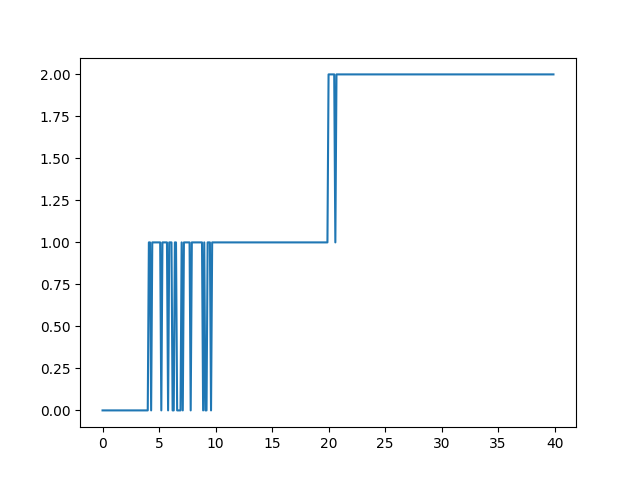
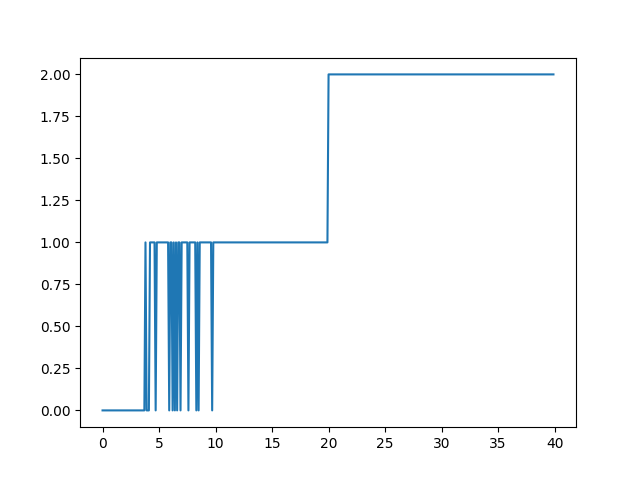
added files

Changed region(s): [[0.2188, 0.5, 0.3438, 0.875], [0.5, 0.1562, 0.5312, 0.5]]

diff --git a/test_benchmark.py b/test_benchmark.py
@@ -12,35 +12,35 @@ import tqdm as tqdm
 ## Synthetic policy parameters
 N = 5
 O = 5
-U = 3
+U = 4
 policy_parameters_load = np.zeros((N,O,3*(U-1)))
-policy_parameters_load[:,:,0::3] = np.array([[15,20],[10,15],[5,10],[0,5],[0,0]])
-policy_parameters_load[:,:,1::3] = np.array([[20,25],[15,20],[10,15],[5,10],[0,5]])
+policy_parameters_load[:,:,0::3] = np.array([[15,20,25],[10,15,20],[5,10,15],[0,5,10],[0,0,0]])
+policy_parameters_load[:,:,1::3] = np.array([[20,25,30],[15,20,25],[10,15,20],[5,10,15],[0,5,10]])
 policy_parameters_load[:,:,2::3] =  np.array([[1],[1],[1],[1],[1]])
+
 print(policy_parameters_load)
 ### Greedy Scheduling, Random Action
 spane_action = lambda l,o,n: get_action_from(policy_parameters_load[n,o],l)
-greedy_action_0 = lambda l,o,n: 0
-greedy_action_1 = lambda l,o,n: 1
-greedy_action_2 = lambda l,o,n: 2
-random_action = lambda l,o,n: np.random.choice([0,1,2])
+greedy_action_3 = lambda l,o,n: 3
+random_action = lambda l,o,n: np.random.choice(U)
 
 N_rounds = 2000
 N_Learners = 5
 N_classes = 10
 
 N_mc = 100
-policies = [spane_action,greedy_action_0,greedy_action_1,greedy_action_2,random_action,random_action]
-scheduling = [get_current_learner, get_current_learner_random, get_current_learner_random, get_current_learner_random, get_current_learner_random, get_current_learner]
+policies = [spane_action,spane_action,greedy_action_3,greedy_action_3,random_action,random_action]
+scheduling = [get_current_learner_random, get_current_learner, get_current_learner_random, get_current_learner, get_current_learner_random, get_current_learner]
+
 N_communication_rounds = np.zeros((len(policies),N_mc))
 
-learner_states_store = np.ones((N_mc,len(policies),N_rounds,N_Learners))*200
-class_counts = np.zeros((len(policies),N_mc,N_rounds,N_Learners,2))
-round_participation = np.zeros((len(policies),N_mc,N_rounds,N_Learners))
-action_rounds = np.zeros((len(policies),N_mc,N_rounds,N_Learners)) 
-num_rounds = np.zeros((len(policies),N_mc,N_Learners))
+learner_states_store = np.ones((N_mc,len(policies),N_rounds,N_Learners))*50  ### Stores the learner states for each mc round
+class_counts = np.zeros((len(policies),N_mc,N_rounds,N_Learners,2)) ### Stores the class counts for each mc round
+round_participation = np.zeros((len(policies),N_mc,N_rounds,N_Learners)) ### Stores the round participation for each mc round
+action_rounds = np.zeros((len(policies),N_mc,N_rounds,N_Learners)) ### Stores the actions for each mc round
+oracle_states_store = np.zeros((N_mc,N_rounds,N_Learners))
 
-PERFORM_EXP = 1
+PERFORM_EXP =0
 
 if PERFORM_EXP:
     for mc_round in tqdm.tqdm(range(N_mc)):
@@ -49,26 +49,28 @@ if PERFORM_EXP:
         for policy in range(len(policies)):
             learner_done = np.zeros((N_Learners))
             for round in np.arange(N_rounds-1):
-                if learner_done.sum() == N_Learners:
-                    break
-                current_round_learner_states = learner_states_store[mc_round,policy,round,:].copy()
-                oracle_states = oracle.get_oracle_states("class")
-                
-                current_learner = scheduling[policy](current_round_learner_states,oracle_states)
-                if learner_done[current_learner] == 1:
-                    continue
-                num_rounds[policy,mc_round,current_learner] += 1
+                if learner_done.sum() < N_Learners:
+                    
+                    current_round_learner_states = learner_states_store[mc_round,policy,round,:].copy()
+                    oracle_states = oracle.get_oracle_states("class")
+                    
+                    current_learner = scheduling[policy](current_round_learner_states,oracle_states)
+                    if learner_done[current_learner] == 1:
+                        continue
 
-                action = policies[policy](current_round_learner_states[current_learner],oracle_states[current_learner],current_learner)
-                action_rounds[policy,mc_round,round,current_learner] = action
-                oracle.update_client_selection_matrix(action,oracle.learner_class_preference[current_learner])
-                round_success = oracle.get_oracle_success(current_learner,"class")
-                if policy != 4 and policy != 5:
-                    current_round_learner_states[current_learner] -= round_success
-                else:
-                    current_round_learner_states[current_learner] -= 1
-                if current_round_learner_states[current_learner] == 0:
-                    learner_done[current_learner] = 1
+                    action = policies[policy](current_round_learner_states[current_learner],oracle_states[current_learner],current_learner)
+                    action_rounds[policy,mc_round,round,current_learner] = action
+                    if action != 0:
+                        action -= 1
+                        oracle.update_client_selection_matrix(action,oracle.learner_class_preference[current_learner])
+                        round_success = oracle.get_oracle_success(current_learner,"class")
+                        if policy != 4 and policy != 5:
+                            current_round_learner_states[current_learner] -= round_success
+                        else:
+                            current_round_learner_states[current_learner] -= 1
+                        if current_round_learner_states[current_learner] == 0:
+                            learner_done[current_learner] = 1
+
                 current_round_learner_states[current_round_learner_states<0] = 0
                 learner_states_store[mc_round,policy,round+1,:] = current_round_learner_states.copy()
                 class_counts[policy,mc_round,round+1,current_learner,:] = oracle.class_dist[oracle.learner_class_preference[current_learner]]
@@ -84,7 +86,6 @@ class_counts = np.load("parameters/class_counts.npy")
 round_participation = np.load("parameters/round_participation.npy")
 
 
-print(class_counts.shape)
 ## For each mc round, for each learner take average of only the rounds that the learner participated in
 class_counts_mean = np.zeros((len(policies),N_mc,N_Learners,2))
 action_rounds_mean = np.zeros((len(policies),N_mc,N_Learners))
@@ -98,11 +99,29 @@ for policy in range(len(policies)):
             class_counts_mean[policy,mc_round,learner,:] = class_counts_mean_learner if np.sum(round_participation[policy,mc_round,:,learner]==1)>0 else np.array([0,0])
             learner_states_mean_learner = learner_states_store[mc_round,policy,round_participation[policy,mc_round,:,learner]==1,learner]
             learner_states_mean[policy,mc_round,learner] = learner_states_mean_learner[-1] if np.sum(round_participation[policy,:,learner]==1)>0 else np.array([0])
+
+
 print(learner_states_mean.mean(1))
-print(num_rounds.mean(1))
 ### highlight nan indices
 class_counts_mean = np.nan_to_num(class_counts_mean, copy=False, nan=0)
-print(class_counts_mean.shape)
-print(class_counts_mean.mean(1))
-print(action_rounds_mean.mean(1))
-print((class_counts_mean.mean(1)[0]-class_counts_mean.mean(1)[-1]).mean())
+
+print((class_counts_mean.mean(1)[1]-class_counts_mean.mean(1)[-1]).mean())
+
+policy_names = ["Spane Random","Spane Scheduling","Greedy Random","Greedy Scheduling","Random Random","Random Scheduling"]
+plt.figure()
+for i in range(len(policies)):
+    plt.plot(np.arange(N_rounds),learner_states_store.mean(0).mean(2)[i],label=policy_names[i])
+plt.legend()
+plt.savefig("figures/learner_states.png")
+
+plt.figure()
+for i in range(len(policies)):
+    plt.plot(np.arange(N_rounds),action_rounds.mean(1).mean(2)[i],label=policy_names[i])
+plt.legend()
+plt.savefig("figures/actions_rounds.png")
+
+plt.figure()
+for i in range(len(policies)):
+    plt.plot(np.arange(N_rounds),class_counts.mean(1).mean(2)[i],label=policy_names[i])
+plt.legend()
+plt.savefig("figures/class_counts.png")

diff --git a/utils/funcs.py b/utils/funcs.py
@@ -36,19 +36,20 @@ def sigmoid_function(x,shift=0,tau=0.1):
     return 1/(1+np.exp((-x+shift)/tau))
 
 def get_action_from(policy_parameters,learner_state):
-    policy_parameters = policy_parameters.flatten()
-    n_thresholds = 2*len(policy_parameters)//3
-    sorted_thresholds = np.sort(policy_parameters[0:n_thresholds])
-    probabilities = np.sin(policy_parameters[n_thresholds::])**2
-    action = 0
+    policy_parameters = policy_parameters.flatten() ### load policy parameters
+    n_thresholds = 2*len(policy_parameters)//3 ### number of thresholds, 2/3 multiplication because one of the parameter is probability
+    sorted_thresholds = np.sort(policy_parameters[0:n_thresholds]) ### the sort doesn't do much
+    probabilities = np.sin(policy_parameters[n_thresholds::])**2 ## probability parameters
+    action = 0 ## output action
     for i in range(sorted_thresholds.shape[0]):
+        ### action probs calculated according to the sigmoid function (formulae in paper)
         if i % 2 == 0:
-            action+=sigmoid_function(learner_state,shift=sorted_thresholds[i])*(1-probabilities[i//2])
+            action+=sigmoid_function(learner_state,shift=sorted_thresholds[i])*(1-probabilities[i//2]) 
         else:    
             action+=sigmoid_function(learner_state,shift=sorted_thresholds[i])*probabilities[i//2]
         
-    action_index = np.floor(action).astype(int)
-    action_prob = action - action_index
+    action_index = np.floor(action).astype(int) ### action
+    action_prob = action - action_index ### its probability
     ### check if action_prob is nan
     if action_prob == None or np.isnan(action_prob):
         action_prob = 0
